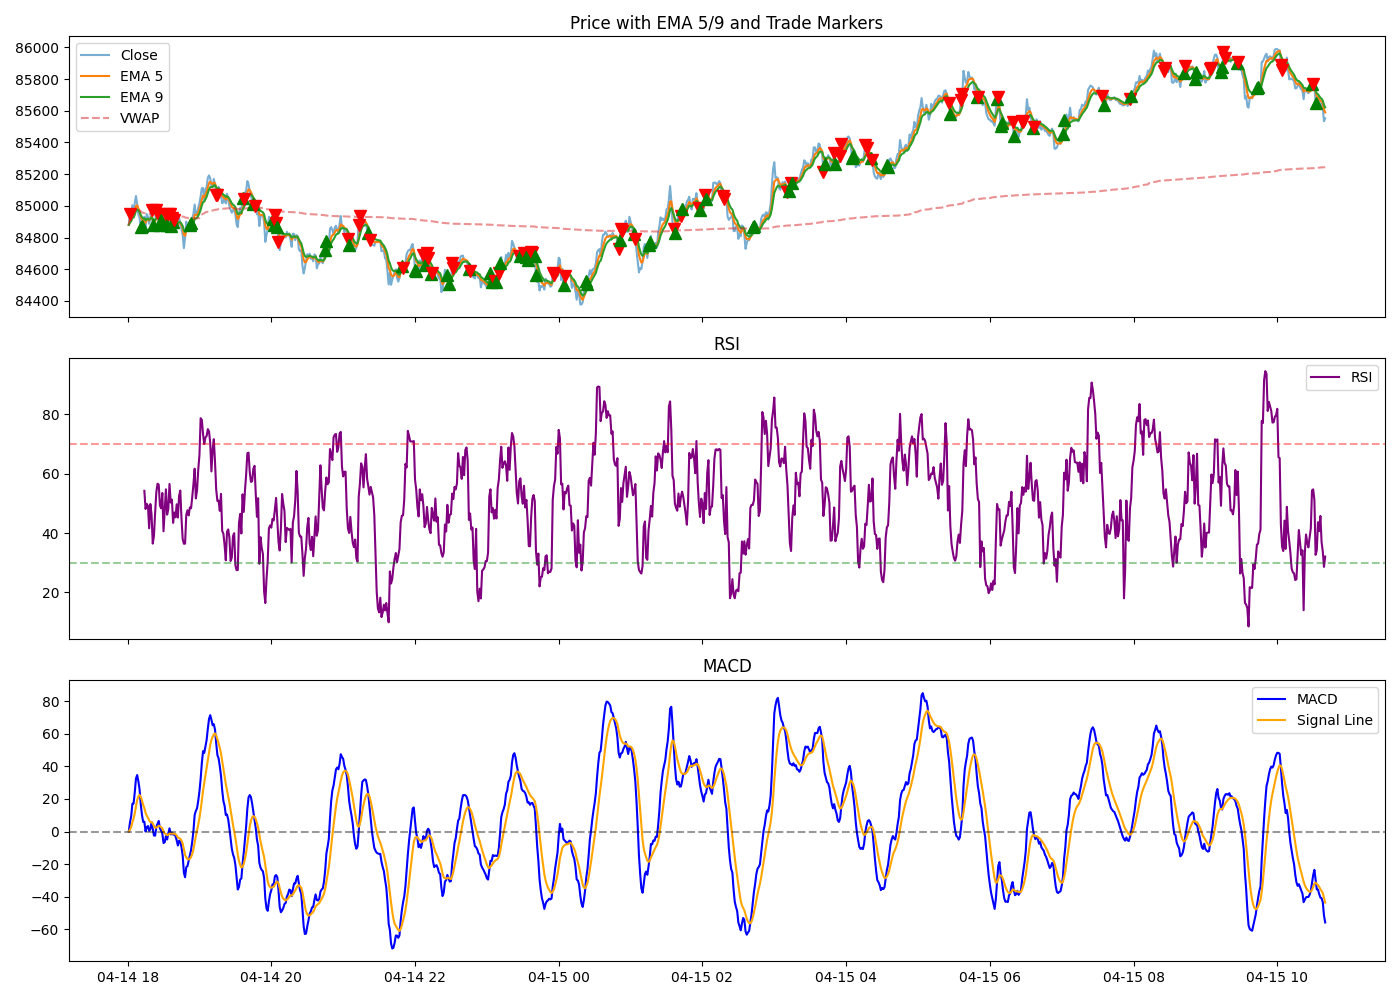
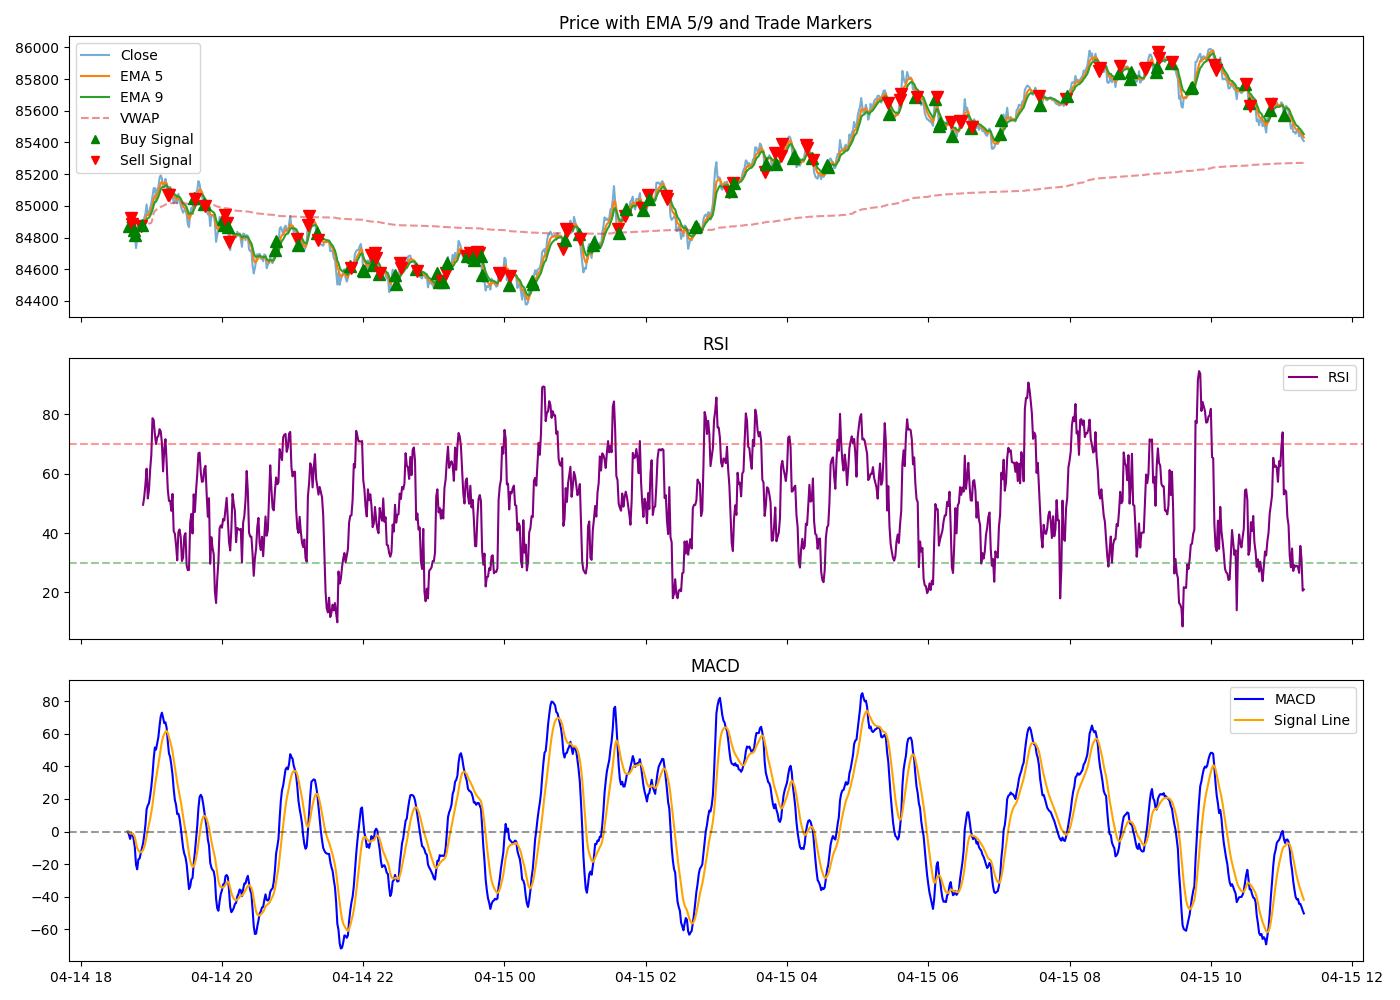
readme added

diff --git a/backtest/backtest.py b/backtest/backtest.py
@@ -41,6 +41,10 @@ def backtest(df, initial_balance=10000):
             ax1.plot(entry_time, row['entry_price'], marker='v', color='red', markersize=8)
             ax1.plot(exit_time, row['exit_price'], marker='^', color='green', markersize=8)
 
+    # Add dummy markers for legend
+    ax1.plot([], [], marker='^', color='green', linestyle='None', label='Buy Signal')
+    ax1.plot([], [], marker='v', color='red', linestyle='None', label='Sell Signal')
+
     ax1.set_title(f'Price with EMA {EMA_SHORT}/{EMA_LONG} and Trade Markers')
     ax1.legend()
 

diff --git a/data/fetch_data.py b/data/fetch_data.py
@@ -4,7 +4,7 @@ import time
 import warnings
 warnings.filterwarnings("ignore")
 
-def fetch_binance_data(symbol='BTC/USDT', timeframe='1m', limit=1000):
+def fetch_binance_data(symbol='BTC/USDT', timeframe='1m', limit=10000):
     exchange = ccxt.binance()
     data = exchange.fetch_ohlcv(symbol, timeframe=timeframe, limit=limit)
     df = pd.DataFrame(data, columns=['timestamp', 'open', 'high', 'low', 'close', 'volume'])

diff --git a/README.md b/README.md
@@ -1,0 +1,89 @@
+# EMA-Based Trading Strategy Bot
+
+This is a lightweight, modular backtesting engine for an EMA-crossover trading strategy, with optional RSI, MACD, and VWAP overlays for reference.
+
+## Features
+
+- 📈 EMA crossover-based entry and exit logic
+- ✅ Optional stop loss and take profit thresholds
+- 📉 RSI, MACD, and VWAP indicators (for visual analysis only)
+- 🔁 Batch sweep of multiple EMA pairs
+- 📊 Equity curve comparison
+- 📄 Trade log output with PnL
+- 📷 Auto-generated plots of price and indicators with trade markers
+
+---
+
+## Project Structure
+
+```
+strategy/
+└── ema_crossover.py         # Core strategy logic (configurable)
+
+backtest/
+└── backtest.py              # Single EMA backtest + chart output
+
+evaluate/
+└── ema_sweep_report.py      # Batch test over multiple EMA pairs
+
+data/
+└── BTCUSDT_1h.csv           # Example dataset (Binance 1h candles)
+
+logs/
+├── trades.csv               # Auto-saved trade log
+├── backtest_plot.png        # Plot from latest run
+├── ema_sweep_report.csv     # Multi-pair sweep results
+└── ema_equity_comparison.png # Equity curve plot
+```
+
+---
+
+## How to Run
+
+### Backtest a single pair (default 5/9):
+```bash
+python -m backtest.backtest
+```
+
+### Batch test multiple EMA pairs:
+```bash
+python -m evaluate.ema_sweep_report
+```
+
+---
+
+## Strategy Logic
+- **Buy entry**: EMA_SHORT crosses above EMA_LONG
+- **Sell entry**: EMA_SHORT crosses below EMA_LONG
+- **Exits** (long or short):
+  - Stop Loss hit (2% default)
+  - Take Profit hit (4% default)
+  - Reverse EMA crossover
+
+All trades are logged to `logs/trades.csv`.
+
+---
+
+## Example Output
+```
+Total Return:     $280.79
+Win Rate:         52.50%
+Max Drawdown:     -0.54%
+```
+
+---
+
+## Next Steps
+- Add live trading execution
+- Add more indicators (Bollinger Bands, Supertrend, etc.)
+- Add parameter optimization for thresholds
+- REST API / Streamlit dashboard
+
+---
+
+## Author
+This bot was co-developed and iterated using Python, Pandas, and Matplotlib — fully automated by ChatGPT.
+
+---
+
+Happy backtesting! 📊
